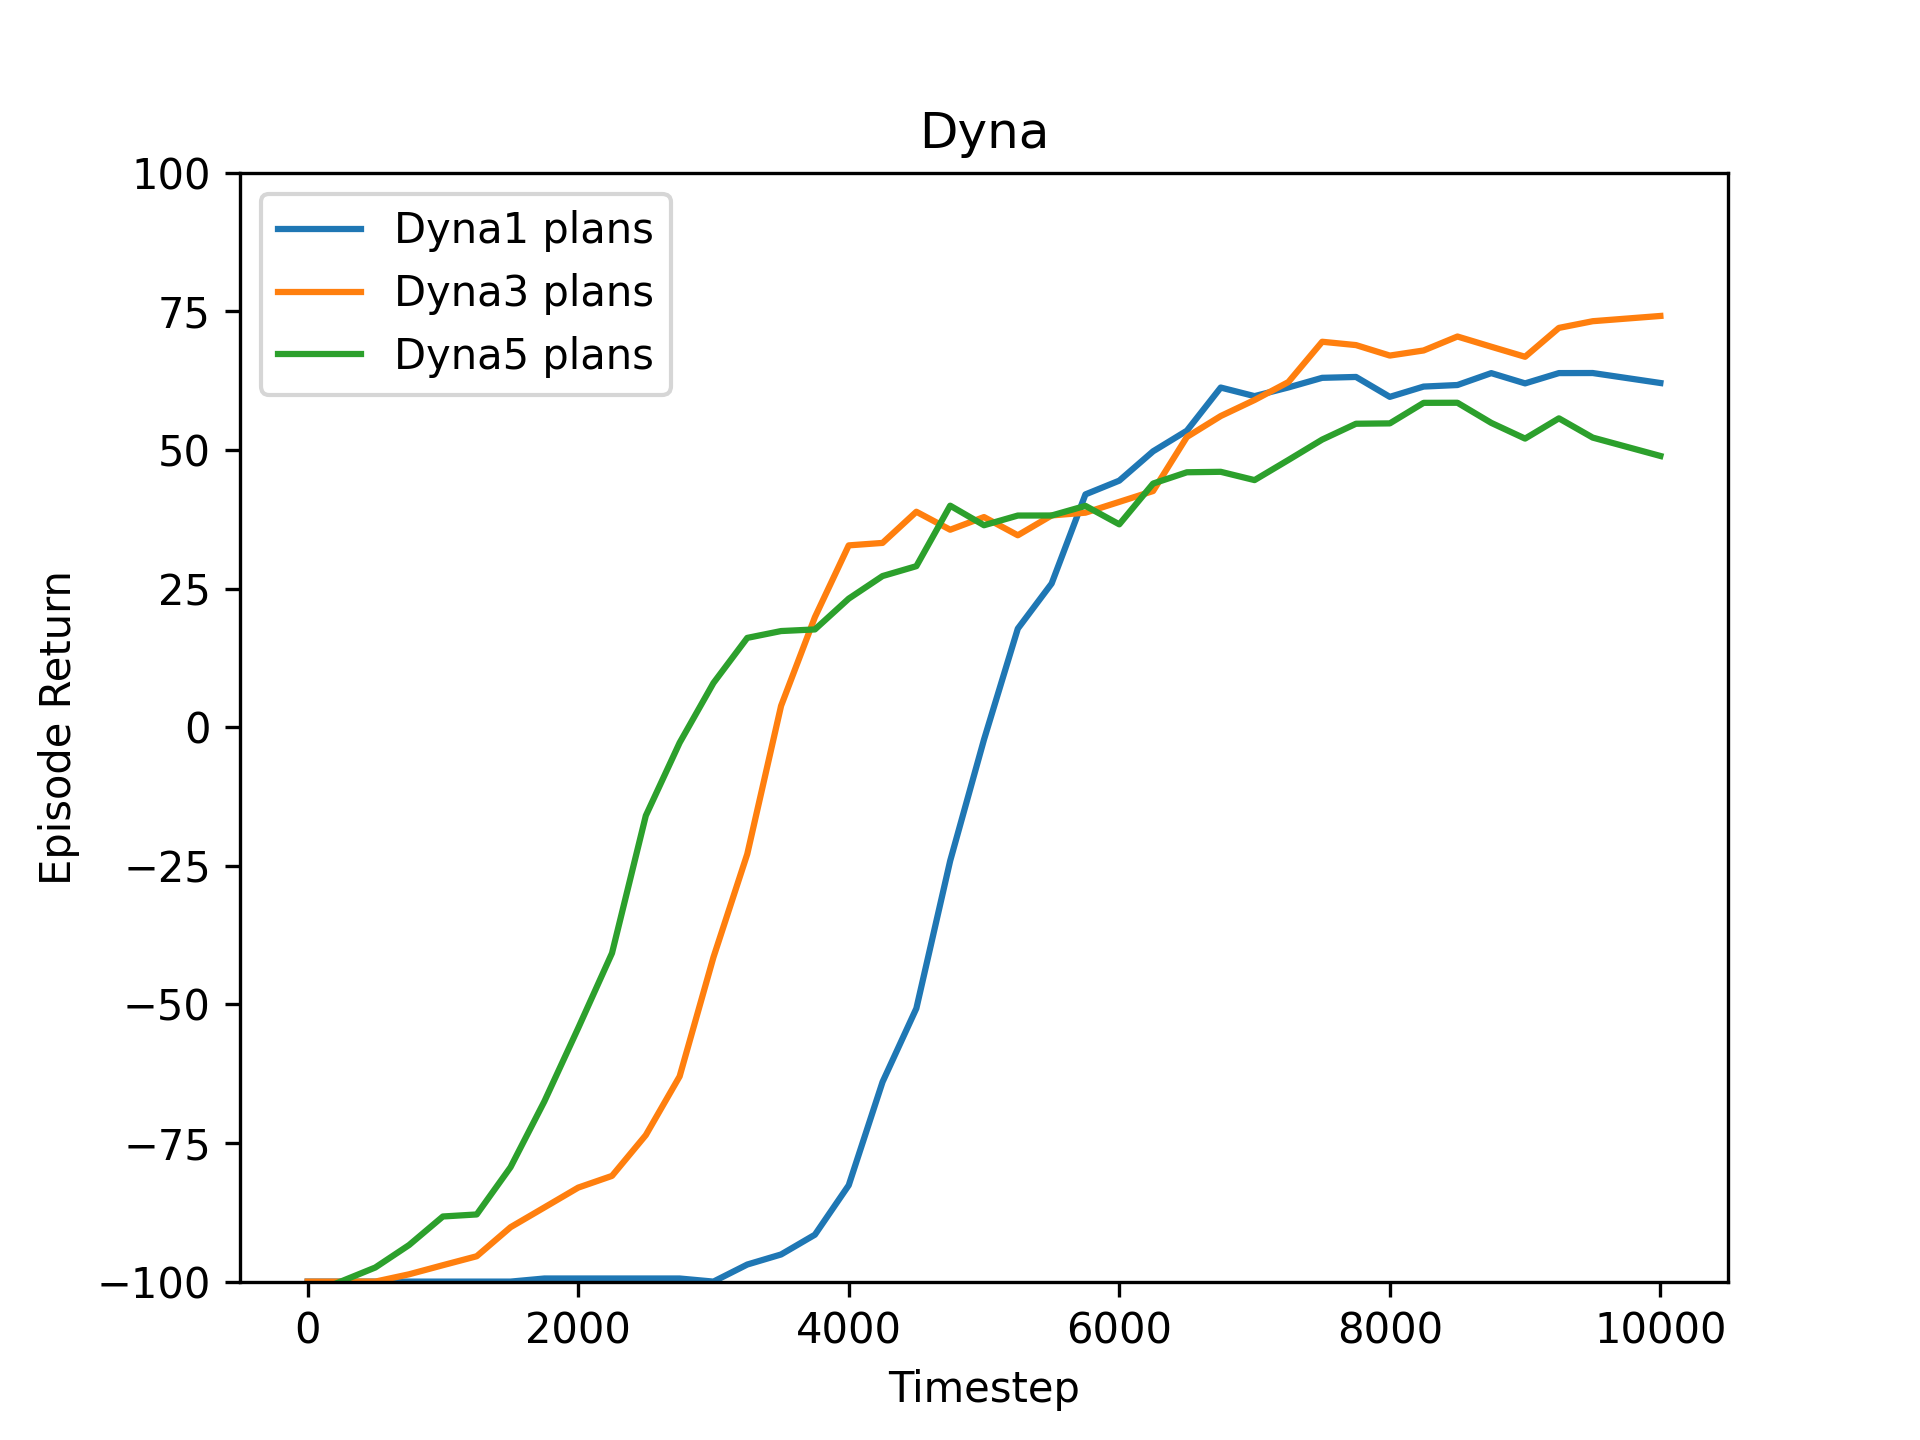
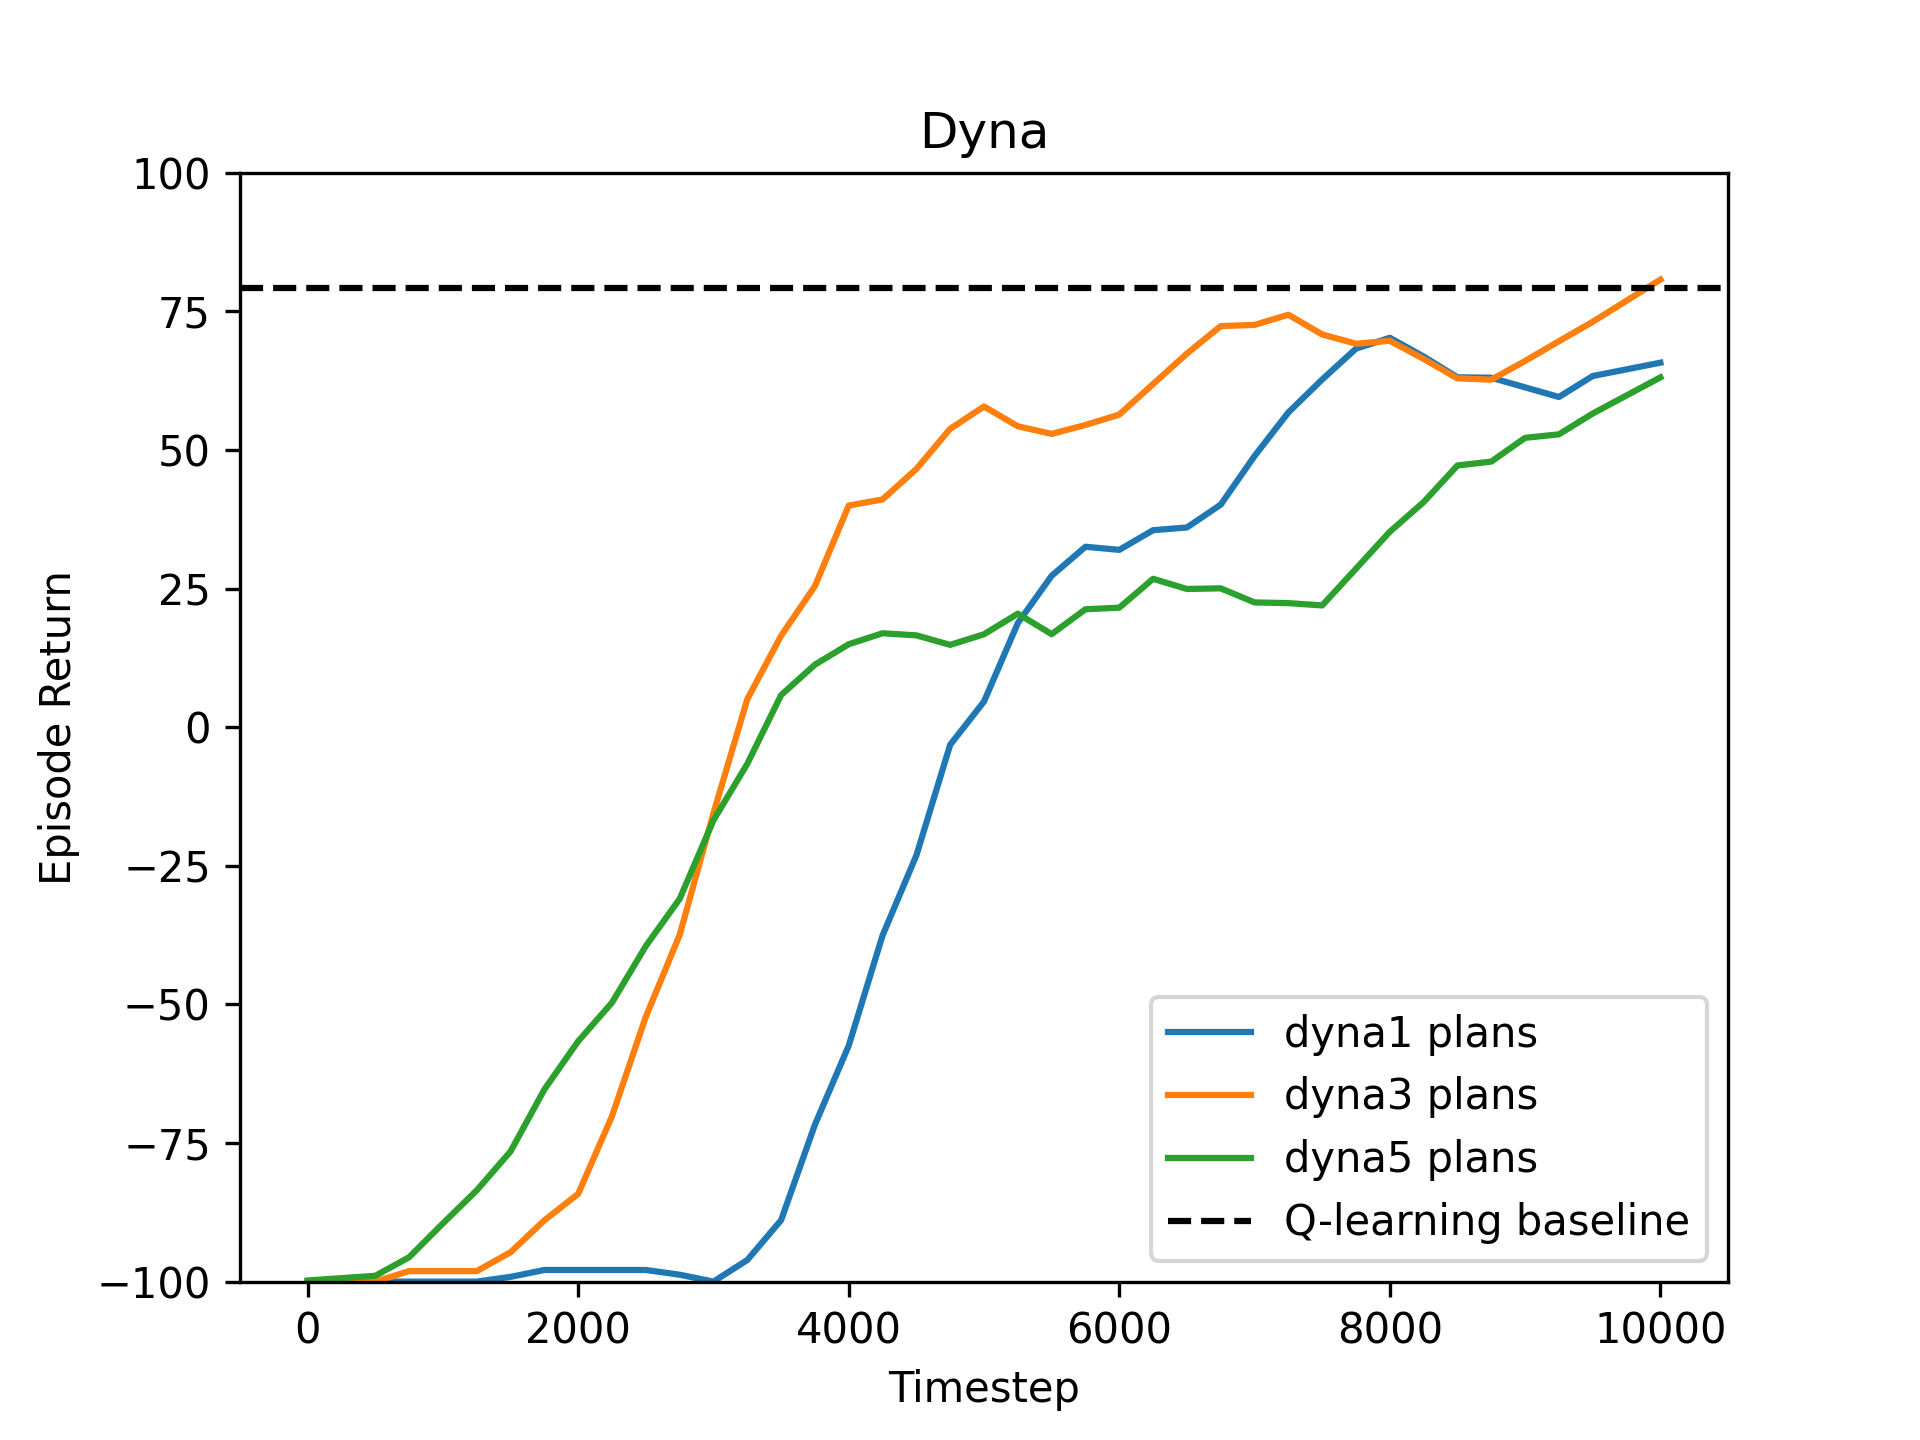
PrioritizedSweeping implemented

diff --git a/MBRLExperiment.py b/MBRLExperiment.py
@@ -22,14 +22,45 @@ def experiment():
     wind_proportions = [0.9,1.0]
     n_planning_updatess = [1,3,5]
 
-    for wind_proportion in wind_proportions:
-        plot = LearningCurvePlot(title='Dyna')
+    def create_plot(algorithm, algorithm_prefix):
+        plot = LearningCurvePlot(title=algorithm_prefix)
         for n_planning_updates in n_planning_updatess:
-            mean_returns = run_repetition("dyna", n_repetitions, n_timesteps, eval_interval, wind_proportion, n_planning_updates, learning_rate, epsilon, gamma)
+            mean_returns = run_repetition(algorithm, n_repetitions, n_timesteps, eval_interval, wind_proportion, n_planning_updates, learning_rate, epsilon, gamma)
             smooth_plot = smooth(mean_returns, window=5)
-            plot.add_curve(np.arange(0, n_timesteps, eval_interval), smooth_plot, label=f'Dyna{n_planning_updates} plans')
+            plot.add_curve(np.arange(0, n_timesteps, eval_interval), smooth_plot, label=f'{algorithm}{n_planning_updates} plans')
+        h_lines = run_repetition("dyna", n_repetitions, n_timesteps, eval_interval, wind_proportion, 0, learning_rate, epsilon, gamma)
+        baseline_value = h_lines[-1]
+        plot.add_hline(baseline_value, label='Q-learning baseline')
         plot.set_ylim(-100, 100)
-        plot.save(f'./figures/Dyna{wind_proportion}.png')
+        plot.save(f'./figures/{algorithm_prefix}{wind_proportion}.png')
+
+    for wind_proportion in wind_proportions:
+        create_plot("dyna", 'Dyna')
+        create_plot("prioritizedsweeping", 'PrioritizedSweeping')
+
+    # for wind_proportion in wind_proportions:
+    #     plot = LearningCurvePlot(title='Dyna')
+    #     for n_planning_updates in n_planning_updatess:
+    #         mean_returns = run_repetition("dyna", n_repetitions, n_timesteps, eval_interval, wind_proportion, n_planning_updates, learning_rate, epsilon, gamma)
+    #         smooth_plot = smooth(mean_returns, window=5)
+    #         plot.add_curve(np.arange(0, n_timesteps, eval_interval), smooth_plot, label=f'Dyna{n_planning_updates} plans')
+    #     h_lines = run_repetition("dyna", n_repetitions, n_timesteps, eval_interval, wind_proportion, 0, learning_rate, epsilon, gamma)
+    #     baseline_value = h_lines[-1]
+    #     plot.add_hline(baseline_value, label="Q-learning baseline")
+    #     plot.set_ylim(-100, 100)
+    #     plot.save(f'./figures/Dyna{wind_proportion}.png')
+    #
+    # for wind_proportion in wind_proportions:
+    #     plot = LearningCurvePlot(title='PrioritizedSweeping')
+    #     for n_planning_updates in n_planning_updatess:
+    #         mean_returns = run_repetition("prioritizedsweeping", n_repetitions, n_timesteps, eval_interval, wind_proportion, n_planning_updates, learning_rate, epsilon, gamma)
+    #         smooth_plot = smooth(mean_returns, window=5)
+    #         plot.add_curve(np.arange(0, n_timesteps, eval_interval), smooth_plot, label=f'PrioritizedSweeping{n_planning_updates} plans')
+    #     h_lines = run_repetition("prioritizedsweeping", n_repetitions, n_timesteps, eval_interval, wind_proportion, 0, learning_rate, epsilon, gamma)
+    #     baseline_value = h_lines[-1]
+    #     plot.add_hline(baseline_value, label="PrioritizedSweeping baseline")
+    #     plot.set_ylim(-100, 100)
+    #     plot.save(f'./figures/PrioritizedSweeping{wind_proportion}.png')
 
 def run_repetition(agent_type, n_repetitions, n_timesteps, eval_interval, wind_proportion, n_planning_updates, learning_rate=0.1, epsilon=0.1, gamma=1.0):
     total_returns = []

diff --git a/MBRLAgents.py b/MBRLAgents.py
@@ -40,8 +40,8 @@ class DynaAgent:
         if done:
             self.Q_sa[s,a] += self.learning_rate * (r - self.Q_sa[s,a])
         else:
-            #a_next = self.select_action(s_next, 0.1) # Maybe change later 
-            next_=np.max(self.Q_sa[s_next]) # MAYBE CHANGE LATER
+            #next_ = self.Q_sa[s_next, self.select_action(s_next, 0.1)] # Maybe change later
+            next_ = np.max(self.Q_sa[s_next]) # MAYBE CHANGE LATER
             self.Q_sa[s, a] += self.learning_rate * (r + self.gamma * next_ - self.Q_sa[s, a])
 
         for K in range(n_planning_updates):
@@ -91,10 +91,17 @@ class PrioritizedSweepingAgent:
         self.priority_cutoff = priority_cutoff
         self.queue = PriorityQueue()
         # TO DO: Initialize relevant elements
+        self.Q_sa = np.zeros((n_states, n_actions))
+        self.n = np.zeros((n_states, n_actions, n_states))
+        self.R_sum = np.zeros((n_states, n_actions, n_states))
         
     def select_action(self, s, epsilon):
         # TO DO: Change this to e-greedy action selection
-        a = np.random.randint(0,self.n_actions) # Replace this with correct action selection
+        p = np.random.rand()
+        if p < epsilon:
+            a = np.random.randint(self.n_actions)
+        else:
+            a = np.argmax(self.Q_sa[s, :])
         return a
         
     def update(self,s,a,r,done,s_next,n_planning_updates):
@@ -106,7 +113,35 @@ class PrioritizedSweepingAgent:
         # self.queue.put((-p,(s,a))) 
         # Retrieve the top (s,a) from the queue
         # _,(s,a) = self.queue.get() # get the top (s,a) for the queue
-        pass
+        self.n[s, a, s_next] += 1
+        self.R_sum[s, a, s_next] += r
+        if done:
+            p = abs(r - self.Q_sa[s, a])
+        else:
+            p = abs(r + self.gamma * np.max(self.Q_sa[s_next]) - self.Q_sa[s,a])
+        if p > self.priority_cutoff:
+            self.queue.put((-p,(s,a)))
+
+        for K in range(n_planning_updates):
+            if self.queue.empty():
+                break
+            _, (s_p, a_p) = self.queue.get()
+
+            n_total = np.sum(self.n[s_p, a_p])
+            if n_total == 0:
+                continue
+            p_hat = self.n[s_p, a_p] / n_total
+            s_prime = np.random.choice(self.n_states, p=p_hat)
+
+            r_hat = self.R_sum[s_p, a_p, s_prime] / self.n[s_p, a_p, s_prime]
+
+            self.Q_sa[s_p, a_p] += self.learning_rate * (r_hat + self.gamma * np.max(self.Q_sa[s_prime]) - self.Q_sa[s_p, a_p])
+
+            for s_bar, a_bar in np.argwhere(self.n[:, :, s_p] > 0):
+                r_bar = self.R_sum[s_bar, a_bar, s_p] / self.n[s_bar, a_bar, s_p]
+                p = abs(r_bar + self.gamma * np.max(self.Q_sa[s_p]) - self.Q_sa[s_bar, a_bar])
+                if p > self.priority_cutoff:
+                    self.queue.put((-p, (s_bar, a_bar)))
 
     def evaluate(self,eval_env,n_eval_episodes=30, max_episode_length=100):
         returns = []  # list to store the reward per episode
